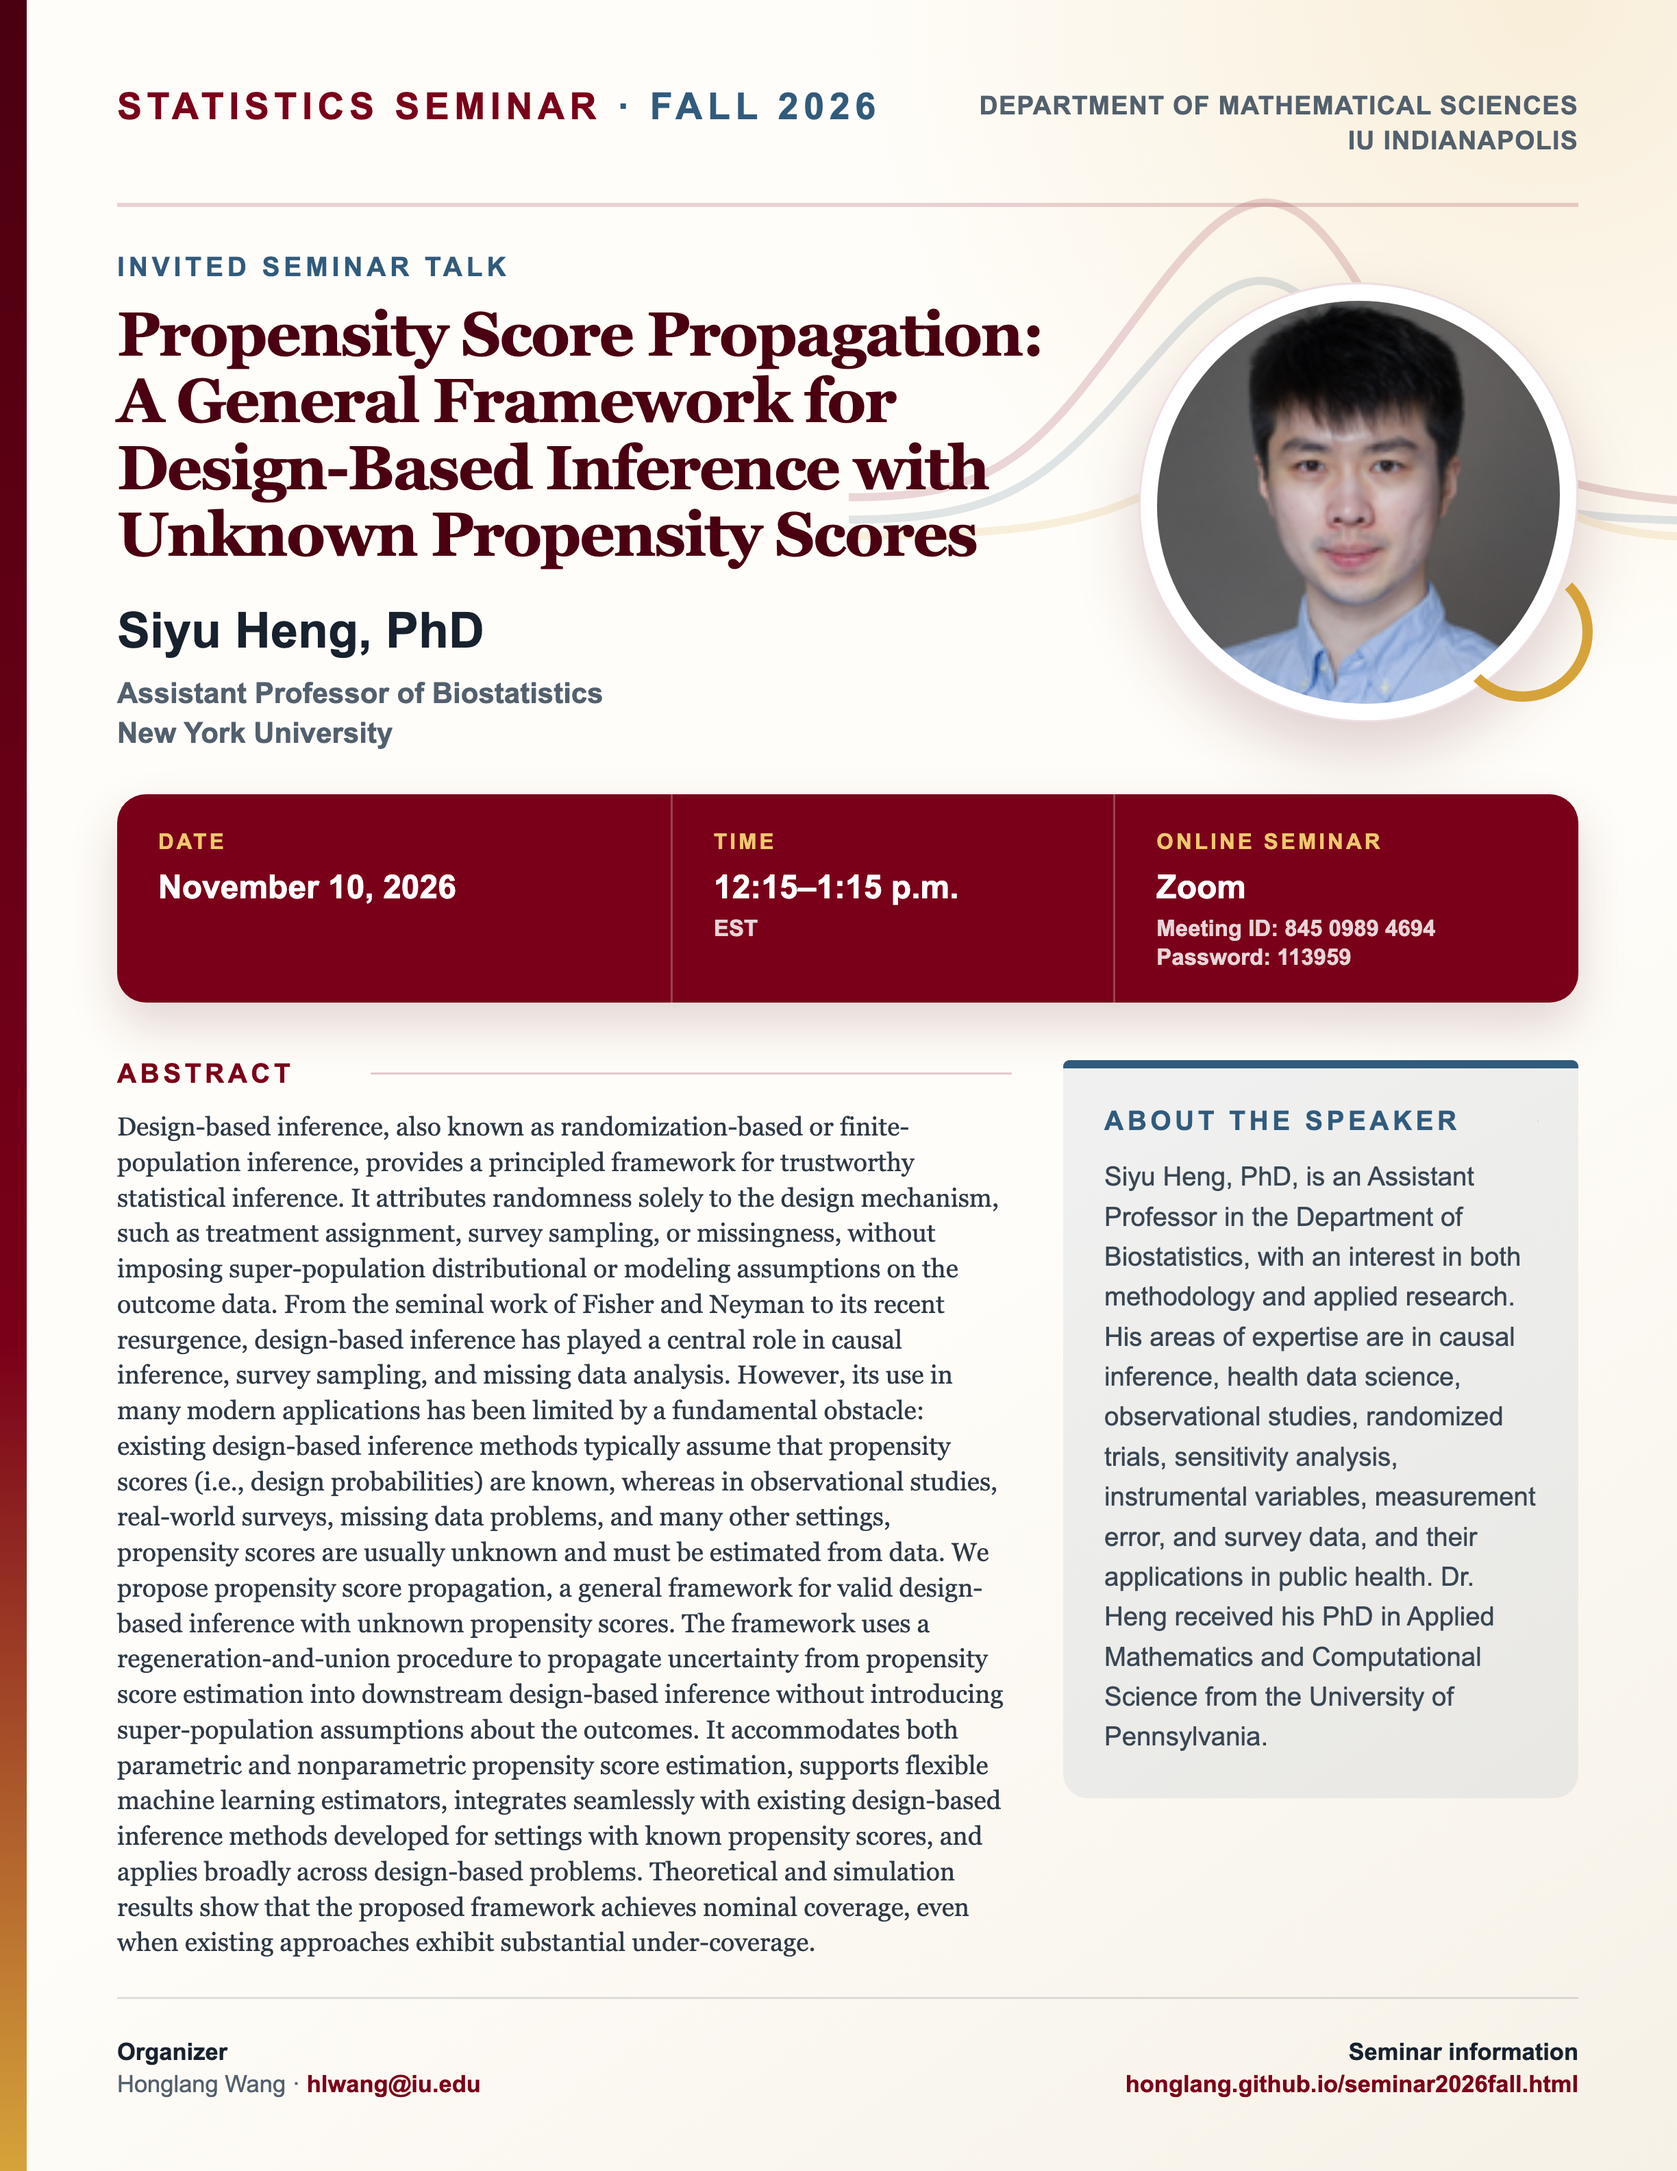
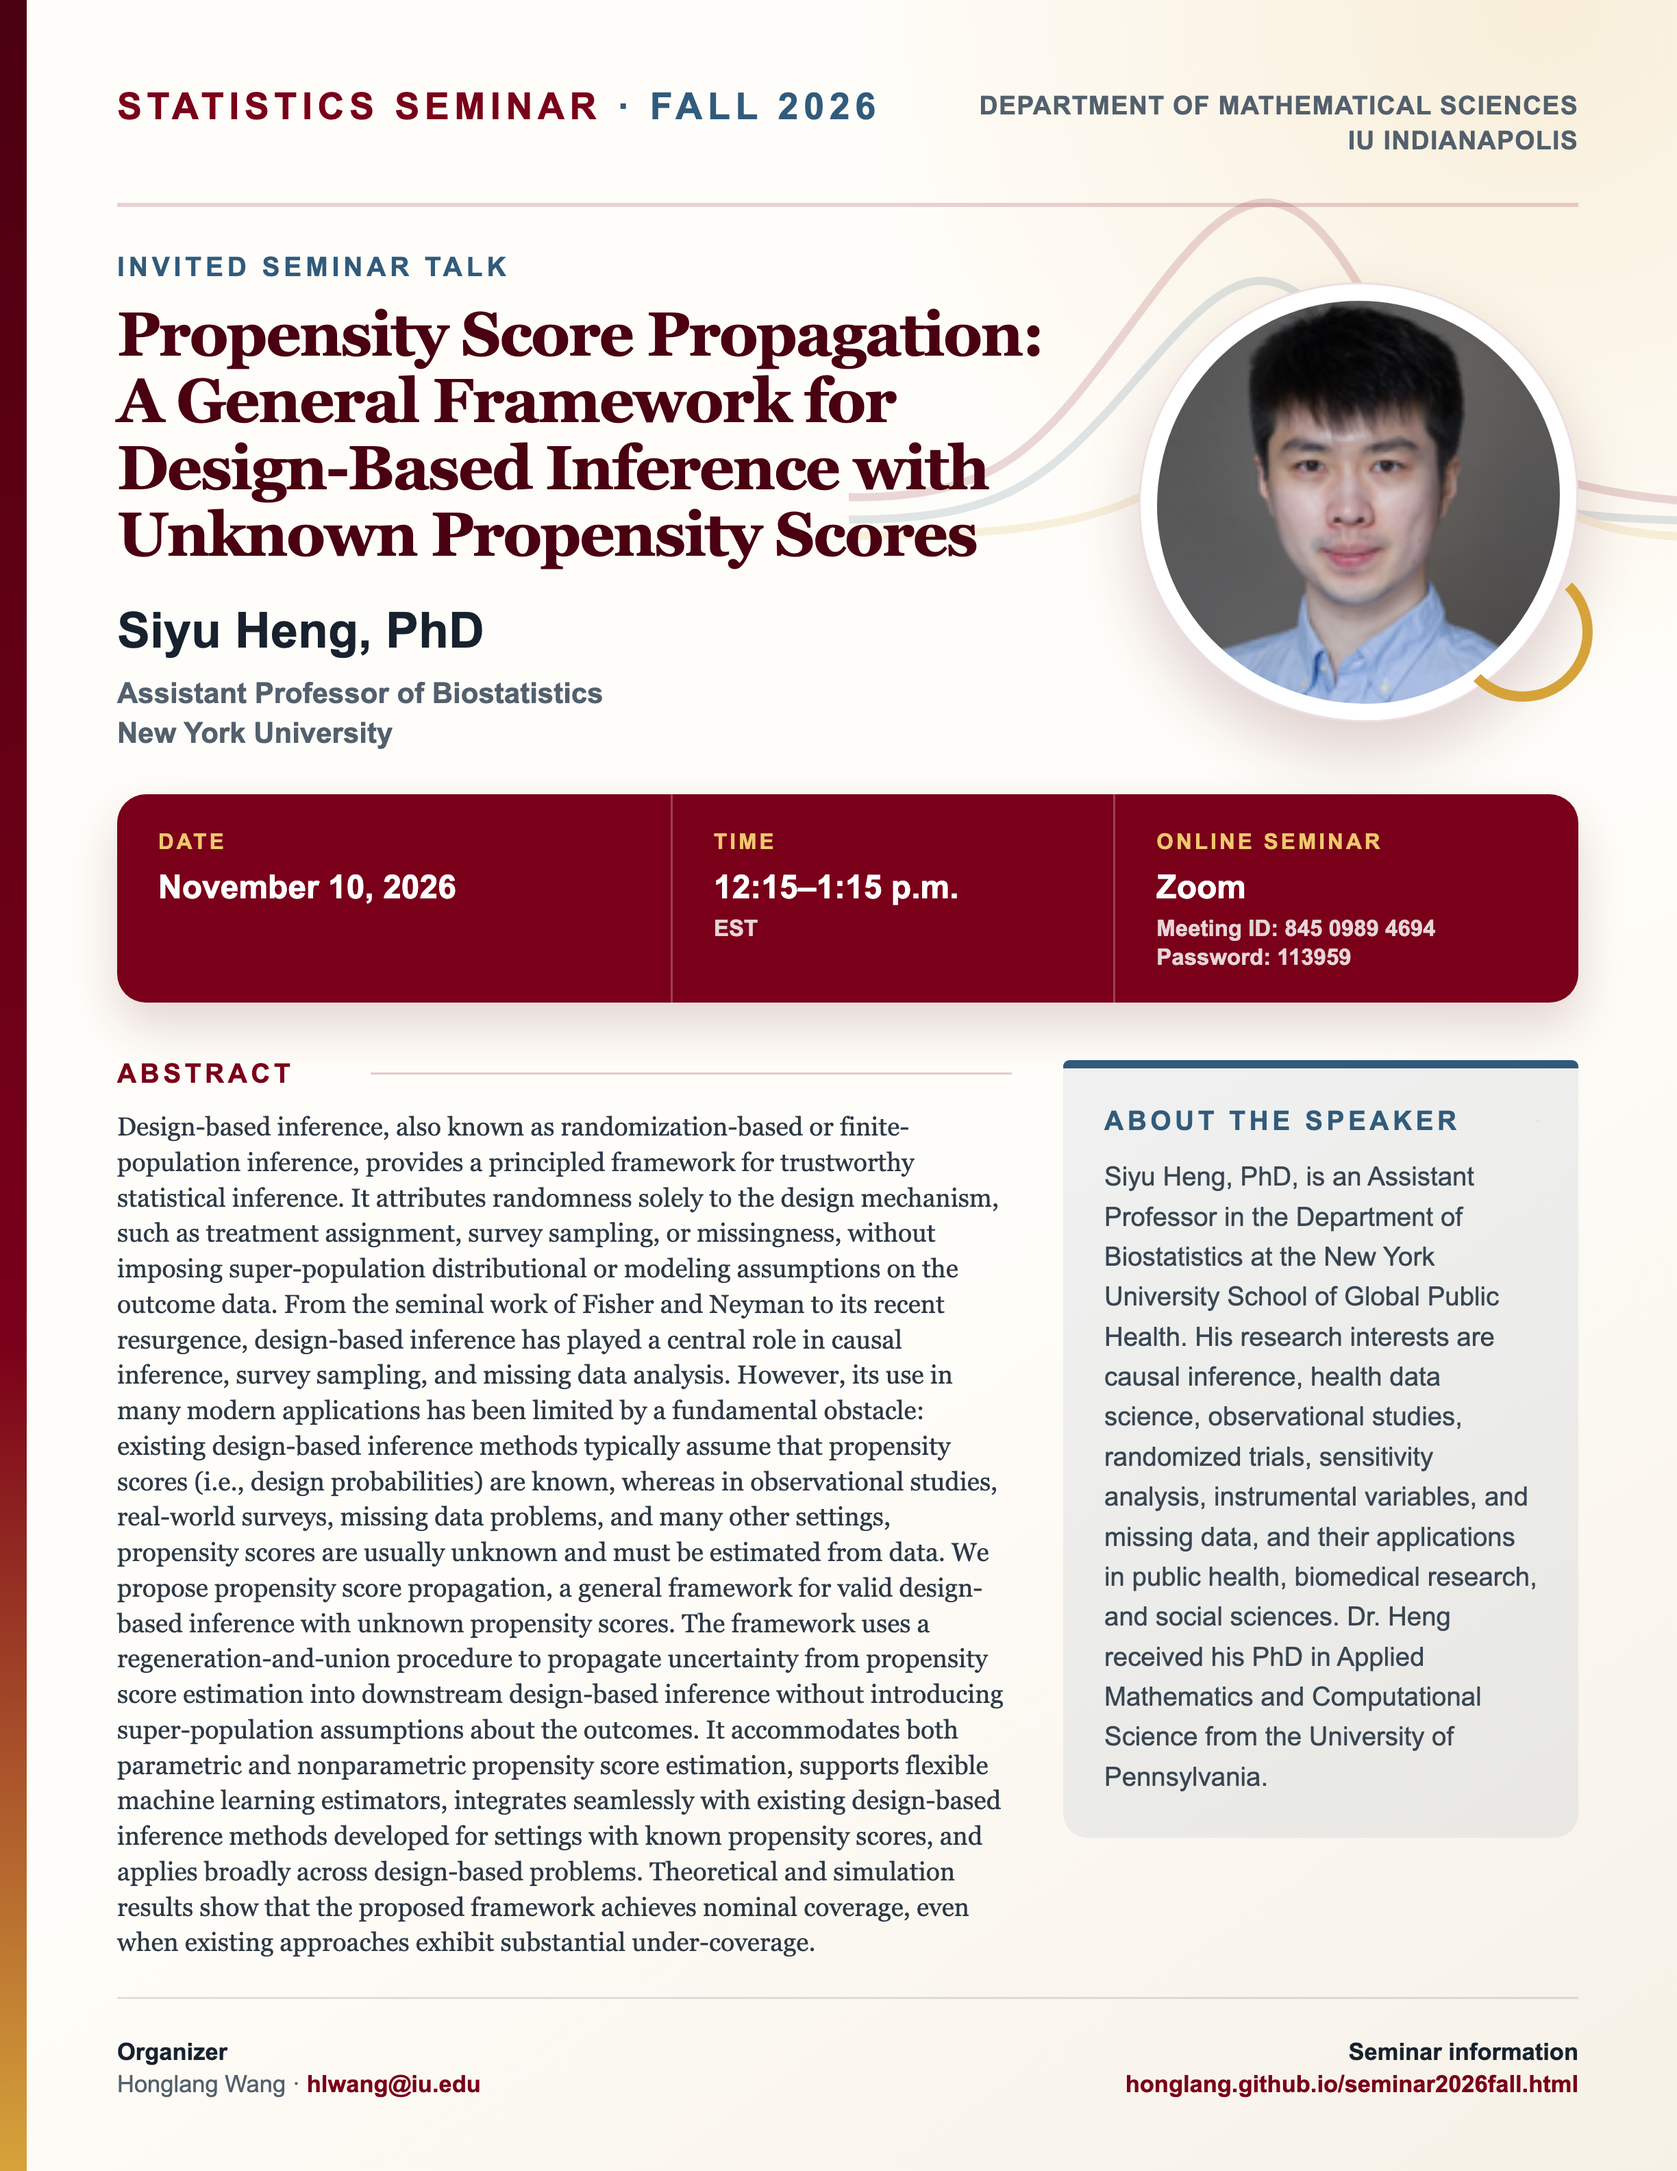
fix: update Siyu Heng seminar biography

Changed region(s): [[0.652, 0.5625, 0.9003, 0.8438]]

diff --git a/docs/posts/2026-11-siyu-heng-seminar/index.html b/docs/posts/2026-11-siyu-heng-seminar/index.html
@@ -283,7 +283,7 @@ https://badge.dimensions.ai/
 </section>
 <section id="about-the-speaker" class="level2">
 <h2 class="anchored" data-anchor-id="about-the-speaker">About the Speaker</h2>
-<p>Siyu Heng, PhD, is an Assistant Professor in the Department of Biostatistics, with an interest in both methodology and applied research. His areas of expertise are in causal inference, health data science, observational studies, randomized trials, sensitivity analysis, instrumental variables, measurement error, and survey data, and their applications in public health. Dr.&nbsp;Heng received his PhD in Applied Mathematics and Computational Science from the University of Pennsylvania.</p>
+<p>Siyu Heng, PhD, is an Assistant Professor in the Department of Biostatistics at the New York University School of Global Public Health. His research interests are causal inference, health data science, observational studies, randomized trials, sensitivity analysis, instrumental variables, and missing data, and their applications in public health, biomedical research, and social sciences. Dr.&nbsp;Heng received his PhD in Applied Mathematics and Computational Science from the University of Pennsylvania.</p>
 <p><a href="../../seminars/SiyuHeng/index.html">View the seminar flyer and full event page</a>.</p>
 <!--Include social share buttons-->
 <!--

diff --git a/docs/seminars/SiyuHeng/index.html b/docs/seminars/SiyuHeng/index.html
@@ -858,7 +858,7 @@ box-shadow: none;
 
       <aside class="bio" aria-labelledby="bio-heading">
         <h2 class="section-heading anchored" id="bio-heading">About the speaker</h2>
-        <p>Siyu Heng, PhD, is an Assistant Professor in the Department of Biostatistics, with an interest in both methodology and applied research. His areas of expertise are in causal inference, health data science, observational studies, randomized trials, sensitivity analysis, instrumental variables, measurement error, and survey data, and their applications in public health. Dr. Heng received his PhD in Applied Mathematics and Computational Science from the University of Pennsylvania.</p>
+        <p>Siyu Heng, PhD, is an Assistant Professor in the Department of Biostatistics at the New York University School of Global Public Health. His research interests are causal inference, health data science, observational studies, randomized trials, sensitivity analysis, instrumental variables, and missing data, and their applications in public health, biomedical research, and social sciences. Dr. Heng received his PhD in Applied Mathematics and Computational Science from the University of Pennsylvania.</p>
       </aside>
     </div>
 

diff --git a/seminars/SiyuHeng/index.html b/seminars/SiyuHeng/index.html
@@ -858,7 +858,7 @@ box-shadow: none;
 
       <aside class="bio" aria-labelledby="bio-heading">
         <h2 class="section-heading anchored" id="bio-heading">About the speaker</h2>
-        <p>Siyu Heng, PhD, is an Assistant Professor in the Department of Biostatistics, with an interest in both methodology and applied research. His areas of expertise are in causal inference, health data science, observational studies, randomized trials, sensitivity analysis, instrumental variables, measurement error, and survey data, and their applications in public health. Dr. Heng received his PhD in Applied Mathematics and Computational Science from the University of Pennsylvania.</p>
+        <p>Siyu Heng, PhD, is an Assistant Professor in the Department of Biostatistics at the New York University School of Global Public Health. His research interests are causal inference, health data science, observational studies, randomized trials, sensitivity analysis, instrumental variables, and missing data, and their applications in public health, biomedical research, and social sciences. Dr. Heng received his PhD in Applied Mathematics and Computational Science from the University of Pennsylvania.</p>
       </aside>
     </div>
 

diff --git a/docs/index.html b/docs/index.html
@@ -347,7 +347,7 @@ window.Quarto = {
 <p>Check out the latest &nbsp;<a href="./posts.html#category=paper">Papers</a>&nbsp;, &nbsp;<a href="./posts.html#category=news">News</a>&nbsp;, &nbsp;<a href="./posts.html#category=event">Events</a>&nbsp;, and &nbsp;<a href="./posts.html">More »</a></p>
 <div id="listing-recent-posts" class="quarto-listing quarto-listing-container-grid">
 <div class="list grid quarto-listing-cols-3">
-<div class="g-col-1" data-index="0" data-categories="bmV3cyUyQ2V2ZW50JTJDc2VtaW5hcg==" data-listing-date-sort="1793854800000" data-listing-file-modified-sort="1793907316587" data-listing-date-modified-sort="NaN" data-listing-reading-time-sort="2" data-listing-word-count-sort="337">
+<div class="g-col-1" data-index="0" data-categories="bmV3cyUyQ2V2ZW50JTJDc2VtaW5hcg==" data-listing-date-sort="1793854800000" data-listing-file-modified-sort="1794059669799" data-listing-date-modified-sort="NaN" data-listing-reading-time-sort="2" data-listing-word-count-sort="339">
 <a href="./posts/2026-11-siyu-heng-seminar/index.html" class="quarto-grid-link">
 <div class="quarto-grid-item card h-100 card-left">
 <p class="card-img-top">

diff --git a/docs/posts.html b/docs/posts.html
@@ -336,7 +336,7 @@ https://learn.microsoft.com/en-us/clarity/setup-and-installation/clarity-setup
     </div>
 </div>
 <div class="list quarto-listing-default">
-<div class="quarto-post image-right" data-index="0" data-categories="bmV3cyUyQ2V2ZW50JTJDc2VtaW5hcg==" data-listing-date-sort="1793854800000" data-listing-file-modified-sort="1793907316587" data-listing-date-modified-sort="NaN" data-listing-reading-time-sort="2" data-listing-word-count-sort="337">
+<div class="quarto-post image-right" data-index="0" data-categories="bmV3cyUyQ2V2ZW50JTJDc2VtaW5hcg==" data-listing-date-sort="1793854800000" data-listing-file-modified-sort="1794059669799" data-listing-date-modified-sort="NaN" data-listing-reading-time-sort="2" data-listing-word-count-sort="339">
 <div class="thumbnail"><a href="./posts/2026-11-siyu-heng-seminar/index.html" class="no-external">
 
 <img loading="lazy" src="./posts/2026-11-siyu-heng-seminar/profile.jpg" class="thumbnail-image">
